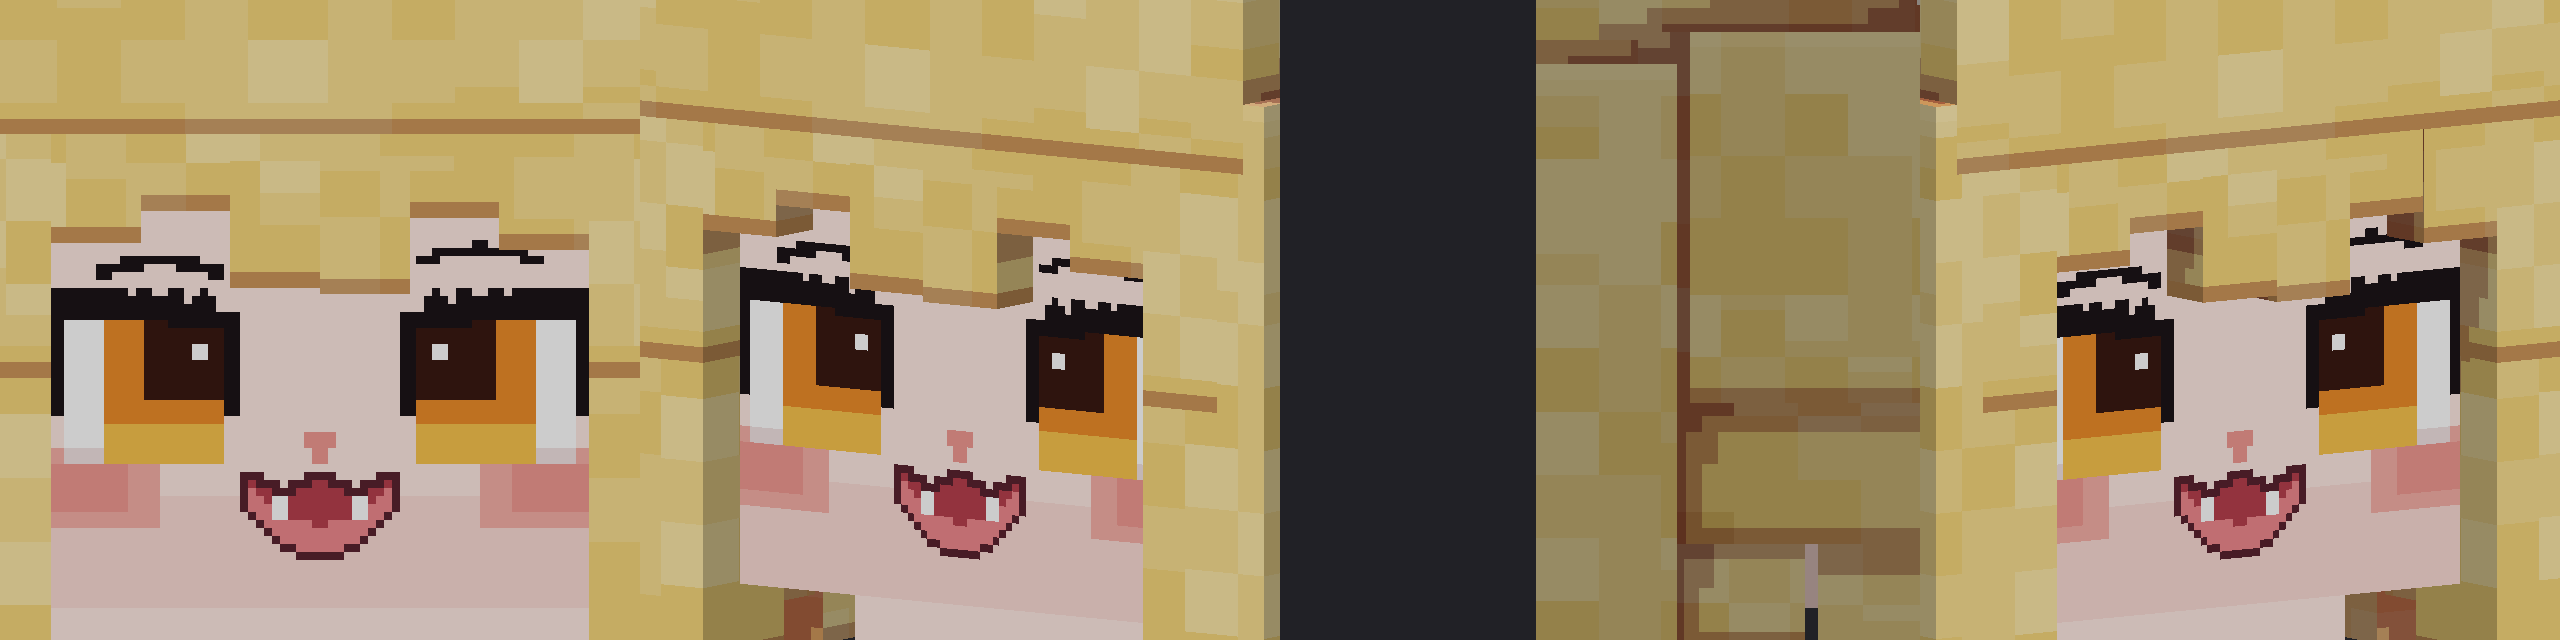
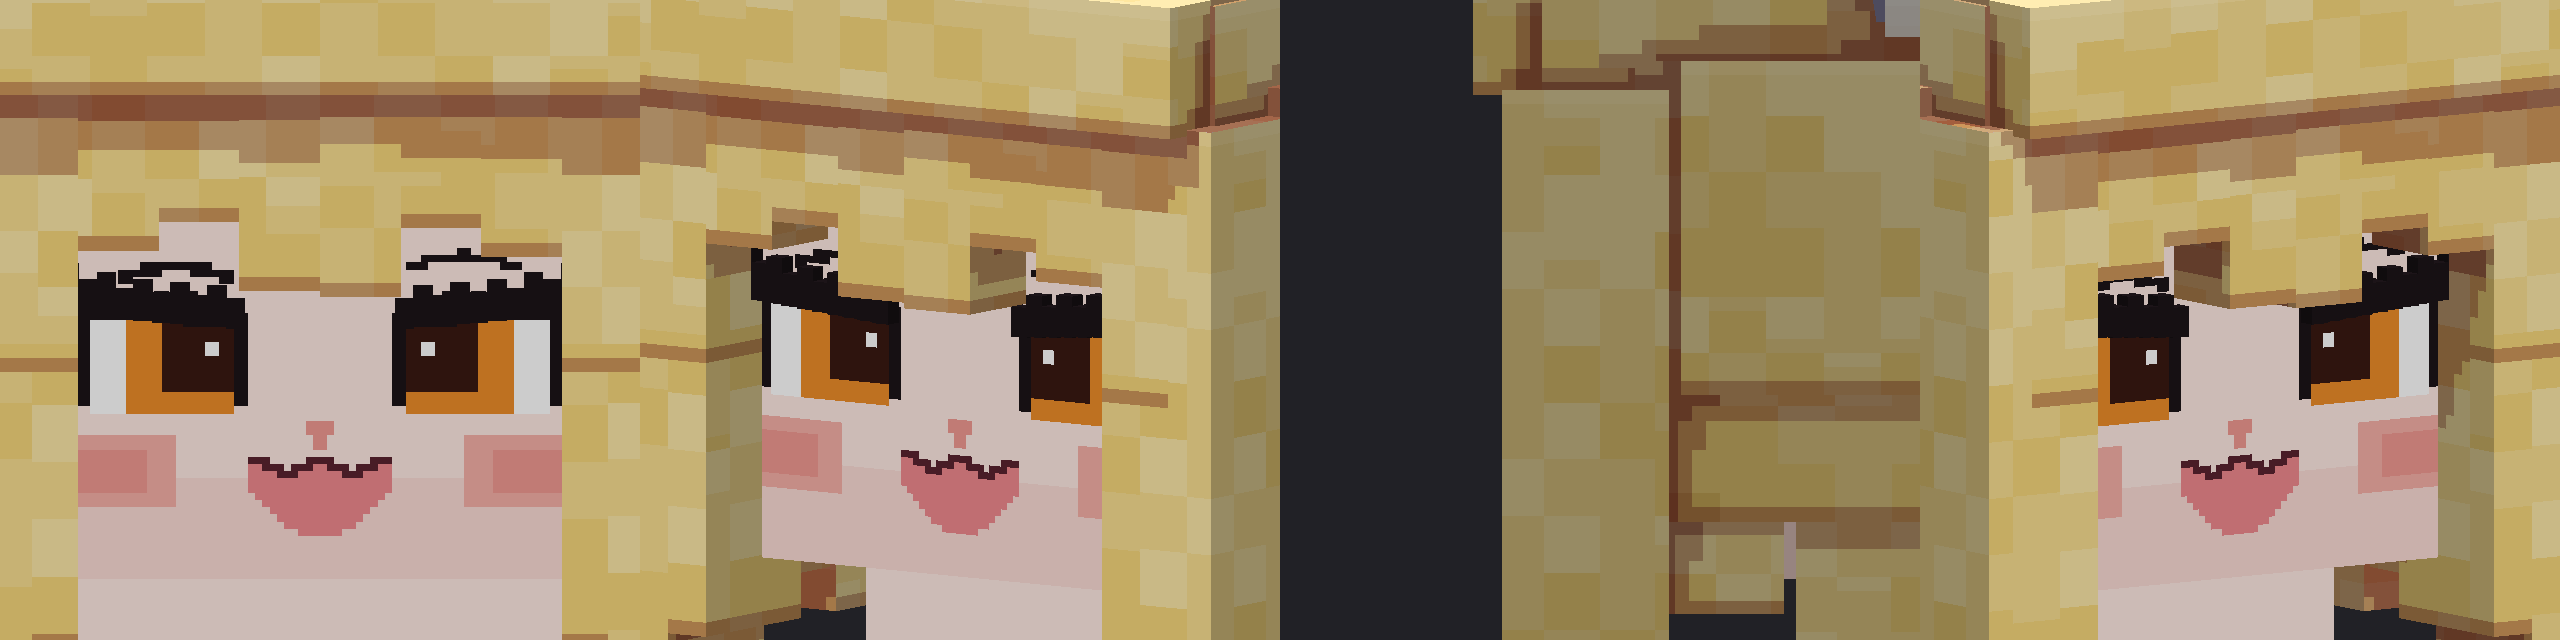
Moles: pestanas en 3D, ojo sin el naranja de abajo, boca rosa y pelo con mas volumen
Claude-Session: https://claude.ai/code/session_01JLSuk79QgXUucDMTiBYitK

diff --git a/taller/personajes/moles.py b/taller/personajes/moles.py
@@ -14,7 +14,7 @@ chiquito y piernas cortas con patas.
 
 from ..kit import Personaje, tonos
 from ..textura import hex_a_rgba as hex_
-from .revolthir import voxel
+from .revolthir import color, voxel
 
 D = 4                                   # texeles por px
 D_CARA = 8                              # la cabeza, con mas detalle para la cara
@@ -55,18 +55,18 @@ def ojo(u, v):
         pico = 0.3 * abs(((u * 2.2) % 1.0) - 0.5) * 2 + 0.2 * max(0.0, (u - 3.0) / 1.5)
         return hex_(PESTANA) if v < arriba + 0.38 + pico and not (u < 1.6 and v > 4.6) else None
     if u < 1.55 or u > 4.0:
-        return hex_(PESTANA) if v > 3.0 else None                       # el borde solo arriba, abajo abierto
+        return hex_(PESTANA) if v > 3.0 else None                       # el borde solo arriba
     if u > 3.35:                                                         # lo blanco, en la esquina de afuera
-        return hex_("#FFFFFF" if v > 2.5 else "#F3E4E4")
+        return hex_("#FFFFFF") if v >= 2.85 else None
     if _en(u, v, 1.75, 2.05, 3.85, 4.15):                               # brillo
         return hex_("#FFFFFF")
     if _en(u, v, 1.55, 2.75, 3.3, arriba):                              # pupila hacia la nariz: bizca
         return hex_(PUPILA)
-    return hex_(AMBAR_CLARO if v < 2.85 else AMBAR)
+    return hex_(AMBAR) if v >= 2.85 else None                          # abajo: cara, sin el naranja claro
 
 
 def boca(u, v):
-    """Boca sonriente de gatito: arriba la w, abierta en D con las comisuras levantadas y la lengua abajo."""
+    """Boca sonriente de gatito: arriba la linea en w y abajo abierta en D, toda rosa."""
     au = abs(u)
     if au > 1.25:
         return None
@@ -74,11 +74,9 @@ def boca(u, v):
     abajo = 0.75 + 0.85 * (au / 1.25) ** 2                             # fondo redondo, comisuras arriba
     if not (abajo <= v <= arriba + 0.12):
         return None
-    if v > arriba - 0.08 or v < abajo + 0.12 or au > 1.25 - 0.15:      # contorno
+    if v > arriba - 0.08:                                              # la linea de arriba (la w)
         return hex_(BOCA)
-    if _en(au, v, 0.45, 0.7, arriba - 0.45, arriba - 0.08):            # colmillito
-        return hex_("#FFFFFF")
-    return hex_(LENGUA if v < abajo + 0.55 else "#B8404E")
+    return hex_(LENGUA)                                                # toda rosa, sin dientes ni sombra
 
 
 def cara(t):
@@ -132,20 +130,24 @@ def pelo(p, C, T):
         for k, (z0, abajo) in enumerate(((-4.4, C - 0.6), (-1.6, C - 1.4), (1.4, C - 0.8))):   # puntas del costado
             a, b = sorted((s * 5.0, s * 6.3))
             p.caja(g, f"punta{s}_{k}", (a, abajo, z0), (b, C + 1.0, z0 + 2.6), PELO_TEX, dens=D)
-    # melena de atras en columnas con puntas de distinto largo
-    for k, abajo in enumerate((C - 1.6, C - 0.6, C - 2.0, C - 1.0, C - 1.8, C - 0.4, C - 1.4, C - 0.8, C - 1.9)):
-        x = -6.1 + k * (12.2 / 9)
-        p.caja(g, f"atras{k}", (x, abajo, 4.0), (x + 12.2 / 9, T - 1.0, 6.1), PELO_TEX, dens=D)
+    # melena de atras: un bloque ancho que llega a la nuca con puntas, y dos mechones largos en las esquinas
+    for k, abajo in enumerate((C + 0.6, C + 1.2, C + 0.3, C + 1.0, C + 0.5, C + 1.3, C + 0.4, C + 1.1, C + 0.7)):
+        x = -6.4 + k * (12.8 / 9)
+        p.caja(g, f"atras{k}", (x, abajo, 3.8), (x + 12.8 / 9, T - 0.6, 6.7), PELO_TEX, dens=D)
+    for s in (1, -1):
+        a, b = sorted((s * 4.6, s * 6.5))
+        p.caja(g, f"cola_pelo{s}", (a, C - 3.4, 4.0), (b, C + 1.5, 6.5), PELO_TEX, dens=D)
     # flequillo: mechones gruesos de distinto largo; un par baja entre los ojos
     ancho = 11.2 / 8
     for k, abajo in enumerate((C + 3.6, C + 5.6, C + 6.1, C + 4.9, C + 5.0, C + 6.2, C + 5.7, C + 3.6)):
         x = -5.6 + k * ancho
-        p.caja(g, f"fleco{k}", (x, abajo, -6.0), (x + ancho, T + 0.2, -5.0), PELO_TEX, dens=D)
+        p.caja(g, f"fleco{k}", (x, abajo, -6.7), (x + ancho, T + 0.2, -5.0), PELO_TEX, dens=D)
+    p.caja(g, "fleco_esponja", (-6.0, T - 1.6, -7.2), (6.0, T + 0.7, -5.0), PELO_TEX, dens=D)   # el copete esponjado
     # mechones largos adelante que enmarcan la cara y bajan hasta el pecho
     for s in (1, -1):
         for k, (x0, x1, abajo) in enumerate(((5.0, 6.5, C - 3.6), (4.2, 5.3, C - 1.2))):
             a, b = sorted((s * x0, s * x1))
-            p.caja(g, f"mechon{s}_{k}", (a, abajo, -6.0), (b, T - 1.5, -3.8), PELO_TEX, dens=D)
+            p.caja(g, f"mechon{s}_{k}", (a, abajo, -6.7), (b, T - 1.5, -3.8), PELO_TEX, dens=D)
 
 
 PELUSA = {"s": "#F3E9DD", "b": "#FFF8EF", "l": "#FFFFFF"}
@@ -195,12 +197,34 @@ def _inclinar(c, piv, rz):
     c.rot = [c.rot[0], c.rot[1], c.rot[2] + rz] if c.rot else [0, 0, rz]
 
 
+def pestanas(p, C):
+    """Las pestanas en 3D: tiras negras chiquitas que salen de la cara sobre cada ojo, de alturas alternadas para que
+    se vean tupidas, y la punta de afuera que baja en diagonal."""
+    g = "Head/pestanas"
+    for lado in (1, -1):                                       # lado 1: a la derecha de quien mira (u > 0)
+        k = 0
+        u = 1.3
+        while u < 4.3:
+            arriba = 4.35 + 0.25 * (u - 1.3) / 3.2
+            alto = 0.45 + (0.28 if k % 2 else 0.08) + 0.2 * max(0.0, (u - 3.0) / 1.3)
+            x1, x2 = sorted((-lado * u, -lado * (u + 0.34)))
+            p.caja(g, f"pestana{lado}_{k}", (x1, C + arriba, -5.32), (x2, C + arriba + alto, -4.98), color(PESTANA),
+                   dens=D_CARA, luz=False)
+            u += 0.32
+            k += 1
+        for i, (du, dv) in enumerate(((0.0, 0.0), (0.3, -0.3), (0.55, -0.6))):   # la punta de afuera
+            x1, x2 = sorted((-lado * (4.3 + du), -lado * (4.65 + du)))
+            p.caja(g, f"punta{lado}_{i}", (x1, C + 4.25 + dv, -5.32), (x2, C + 4.75 + dv, -4.98), color(PESTANA),
+                   dens=D_CARA, luz=False)
+
+
 def construir():
     p = Personaje("moles", altura=21, cabeza=CABEZA_ALTO, torso=(5.6, 6, 3.2), brazo=(2.0, 2.0), pierna=(2.4, 2.4))
     C, T, L = p.cuello, p.tope, p.lh                           # 11, 21, 5
     assert C == CUELLO
 
     p.caja("Head/cabeza", "cabeza", (-5, C, -5), (5, T, 5), cabeza, dens=D_CARA, luz=False)   # sin sombra en la cara
+    pestanas(p, C)
     pelo(p, C, T)
     orejas(p, T)
 
